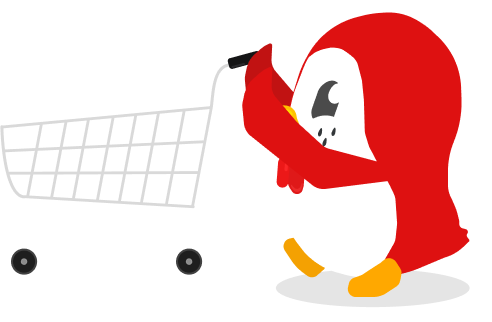
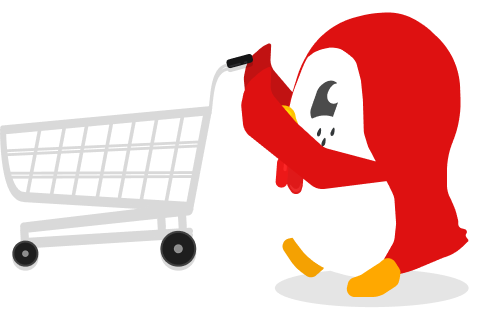
added new questions and more styling

diff --git a/src/components/GroceryGame.jsx b/src/components/GroceryGame.jsx
@@ -10,15 +10,30 @@ import broccoli from '../img/broccoli.png';
 import baguette from '../img/baguette.png';
 import coffeebeans from '../img/coffeebeans.png';
 import strawberry from '../img/strawberry.png';
+import carrot from '../img/carrot.png';
+import celery from '../img/celery.png';
+import cow from '../img/cow.png';
+import lobster from '../img/lobster.png';
+import tomato from '../img/tomato.png';
+import wheat from '../img/wheat.png';
 import unchecked from '../img/unchecked.png';
 import correctBg from '../img/foodcorrectbg.png';
 import incorrectBg from '../img/foodincorrectbg.png';
+import speechbubble from '../img/speechbubble.png';
+import checked from '../img/checked.png';
+import wrong from '../img/wrong.png';
 
 const images = {
   broccoli,
   baguette,
   coffeebeans,
   strawberry,
+  carrot,
+  celery,
+  cow,
+  lobster,
+  wheat,
+  tomato,
 };
 
 function GroceryGame(props) {
@@ -31,7 +46,7 @@ function GroceryGame(props) {
   };
   const [currentQuestionIndex, setCurrentQuestionIndex] = useState(0);
   const [correctCount, setCorrectCount] = useState(0);
-  const [currentCorrect, setCurrentCorrect] = useState(false);
+  const [currentCorrect, setCurrentCorrect] = useState(0); // -1:incorrect, 0: nothing, 1:correct
   const [showModal, setShowModal] = useState(false);
   const [reachedEnd, setReachedEnd] = useState(false);
 
@@ -39,15 +54,17 @@ function GroceryGame(props) {
     console.log('outcome', outcome);
     if (outcome === 'correct') {
       setCorrectCount(correctCount + 1);
-      setCurrentCorrect(true);
+      setCurrentCorrect(1);
       console.log('added correct', correctCount);
+    } else {
+      setCurrentCorrect(-1);
     }
     setShowModal(true);
     setTimeout(() => {
       setShowModal(false);
       if (currentQuestionIndex < data.questions.length - 1) {
         setCurrentQuestionIndex(currentQuestionIndex + 1);
-        setCurrentCorrect(false);
+        setCurrentCorrect(0);
       } else {
         setReachedEnd(true);
       }
@@ -66,6 +83,15 @@ function GroceryGame(props) {
   };
 
   const currentQuestion = data.questions[currentQuestionIndex];
+  const questionStatus = () => {
+    if (currentCorrect === -1) {
+      return wrong;
+    } else if (currentCorrect === 0) {
+      return unchecked;
+    } else {
+      return checked;
+    }
+  };
 
   return (
     <div className="grocery-game-page">
@@ -73,7 +99,7 @@ function GroceryGame(props) {
       {!reachedEnd && (
         <div className="grocery-questions">
           <div className="grocery-question-text">
-            <img src={unchecked} />
+            <img src={questionStatus()} />
             <p>Je cherche</p>
             <p className="grocery-question-textdeco">
               {currentQuestion.question}.
@@ -104,11 +130,14 @@ function GroceryGame(props) {
                   </button>
                 ))}
               </div>
-              <p>
-                {currentCorrect
-                  ? data.outcomes.correct.text
-                  : data.outcomes.incorrect.text}
-              </p>
+              <div className="grocery-correct-modal-textbg">
+                <p className="speechbubble-text">
+                  {currentCorrect === 1
+                    ? data.outcomes.correct.text
+                    : data.outcomes.incorrect.text}
+                </p>
+                <img src={speechbubble} className="speechbubble-image" />
+              </div>
             </div>
           )}
         </div>

diff --git a/src/style.scss b/src/style.scss
@@ -1055,7 +1055,7 @@ input.enter-name.not-empty {
 
 .pengu-shopping-bg {
   position: absolute;
-  right: 4%;
+  right: 3%;
   bottom: 13%;
   z-index: 0;
 }
@@ -1117,4 +1117,27 @@ input.enter-name.not-empty {
 .grocery-question-textdeco {
   text-decoration: underline;
   color: #11ADDE;
+}
+
+.grocery-correct-modal-textbg {
+  position: absolute;
+  display: flex;
+  justify-content: center;
+  align-items: center;
+  font-weight: 400;
+  right: 220px;
+  bottom: 210px;
+}
+
+.speechbubble-image {
+  position: relative;
+  z-index: 3;
+}
+
+.speechbubble-text {
+  position: absolute;
+  width: 75%;
+  font-size: 22px;
+  z-index: 4;
+  align-self: center;
 }
